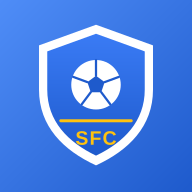
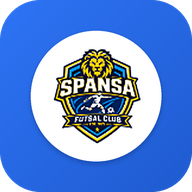
Add files via upload

diff --git a/index.html b/index.html
@@ -9,8 +9,8 @@
     <script>try{if(localStorage.getItem("theme")==="dark"){document.documentElement.setAttribute("data-theme","dark")}}catch(e){}</script>
     <title>Spansa Futsal Club</title>
     <link rel="manifest" href="/manifest.webmanifest" />
-    <link rel="icon" type="image/svg+xml" href="/icon.svg" />
-    <link rel="apple-touch-icon" href="/icon-192.png" />
+    <link rel="icon" type="image/png" sizes="64x64" href="/favicon-64.png" />
+    <link rel="apple-touch-icon" sizes="180x180" href="/apple-touch-icon.png" />
     <link rel="preconnect" href="https://fonts.googleapis.com" />
     <link rel="preconnect" href="https://fonts.gstatic.com" crossorigin />
     <link href="https://fonts.googleapis.com/css2?family=Inter:wght@400;500;600;700;800&family=Montserrat:ital,wght@1,800&family=Plus+Jakarta+Sans:wght@400;500;600;700;800&display=swap" rel="stylesheet" />

diff --git a/public/sw.js b/public/sw.js
@@ -1,4 +1,4 @@
-const CACHE = 'sfc-shell-v2';
+const CACHE = 'sfc-shell-v3';
 self.addEventListener('install', () => { self.skipWaiting(); });
 self.addEventListener('activate', (e) => {
   e.waitUntil(caches.keys().then((keys) => Promise.all(keys.filter((k) => k !== CACHE).map((k) => caches.delete(k)))).then(() => self.clients.claim()));

diff --git a/PANDUAN.md b/PANDUAN.md
@@ -114,3 +114,8 @@ Hak akses (Security Rules): admin penuh; anggota hanya membaca data dirinya (ang
 ## Pembaruan v7
 - **Filter kelas** di menu Anggota Futsal (admin dan anggota): pilih semua kelas, satu tingkat (mis. semua kelas 7), atau satu kelas. Jumlah anggota tampil di tiap pilihan. Untuk admin, ekspor dan "pilih semua" mengikuti hasil filter, sehingga bisa memilih satu kelas lalu reset password sekaligus.
 - **Tampilan anggota:** tombol Grid / List; pilihan diingat di perangkat masing-masing.
+
+## Pembaruan v8 — ikon aplikasi (PWA)
+- Ikon saat aplikasi dipasang (Add to Home Screen) kini memakai logo Spansa Futsal Club: lingkaran putih di atas latar biru, kotak bersudut membulat. File: `public/icon-192.png`, `icon-512.png`, `icon-maskable-192.png`, `icon-maskable-512.png`, `apple-touch-icon.png`, `favicon-64.png`.
+- Ikon lama tersimpan di cache perangkat. Agar berganti, **hapus aplikasi yang sudah terpasang lalu pasang ulang** (di Android kadang butuh beberapa menit; di iPhone hapus ikon lalu "Tambah ke Layar Utama" lagi).
+- Untuk hasil paling tajam, ikon bisa dibuat ulang dari file logo asli beresolusi tinggi (PNG transparan, minimal 512 px).
